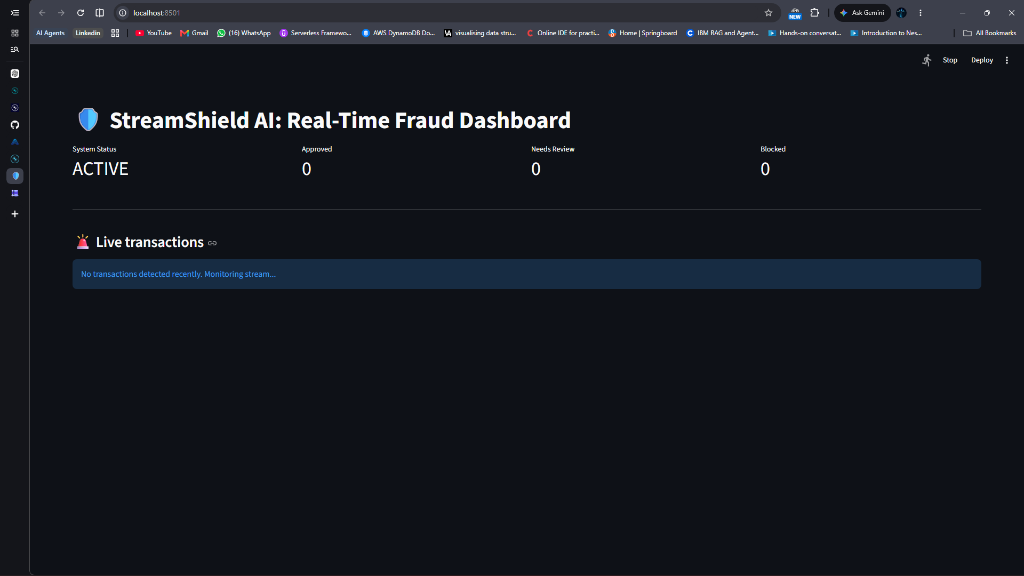
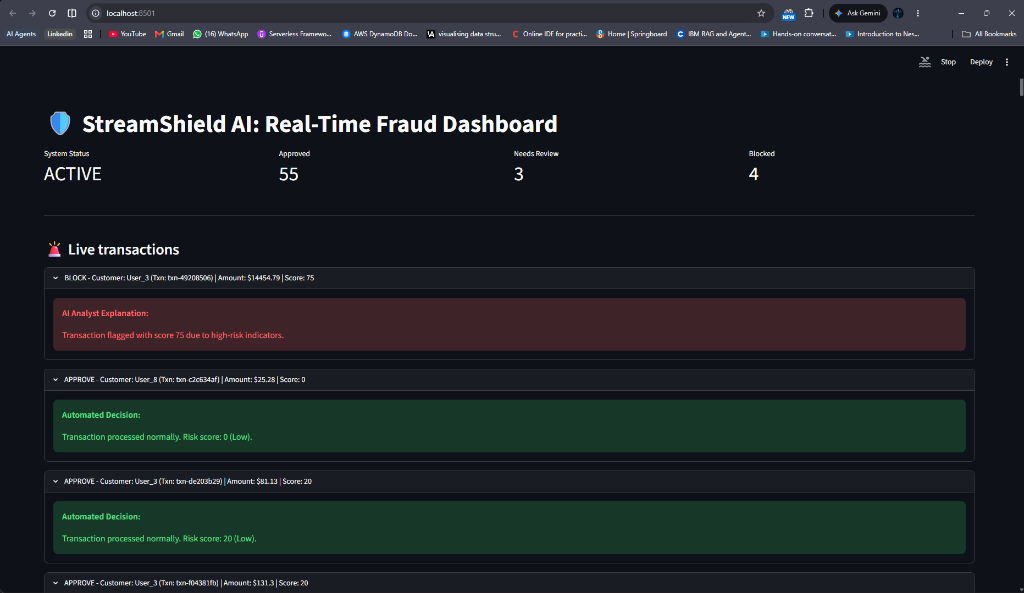
Update screenshots and clean up repo

diff --git a/README.md b/README.md
@@ -40,6 +40,9 @@ You will need the following topics:
 > For `security-alerts`, navigate to the Confluent UI, look at the topic messages, and click **Infer Schema** to automatically generate a JSON Schema Data Contract!
 > 
 > ![Infer Schema](screenshots/infer_schema.png)
+>
+> You can also view the rich AI-enriched JSON payload flowing through in real-time:
+> ![Security Alerts Messages](screenshots/security_alerts_messages.png)
 
 ### Generate Customer Data
 1. Go to **Connectors** and add a **Sample Data (Datagen)** connector.
